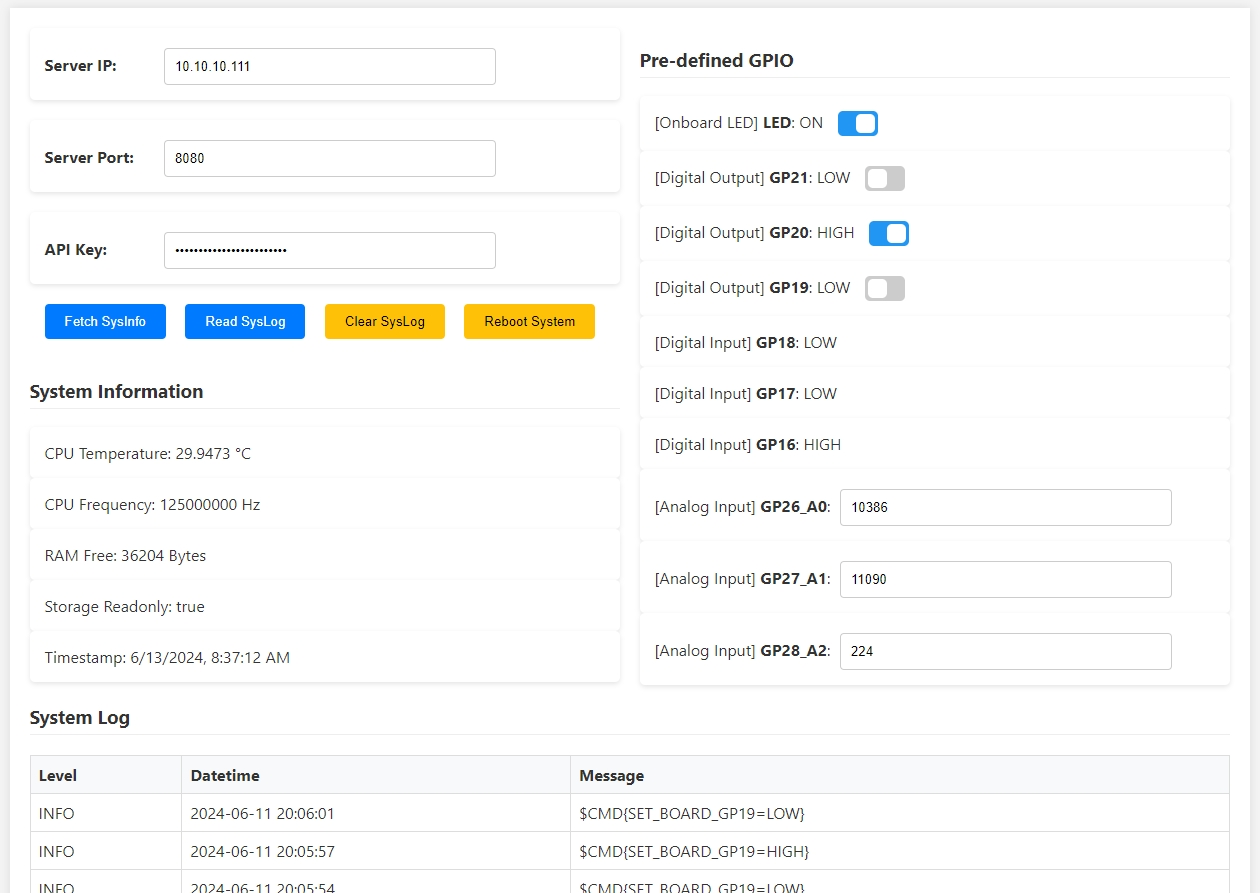
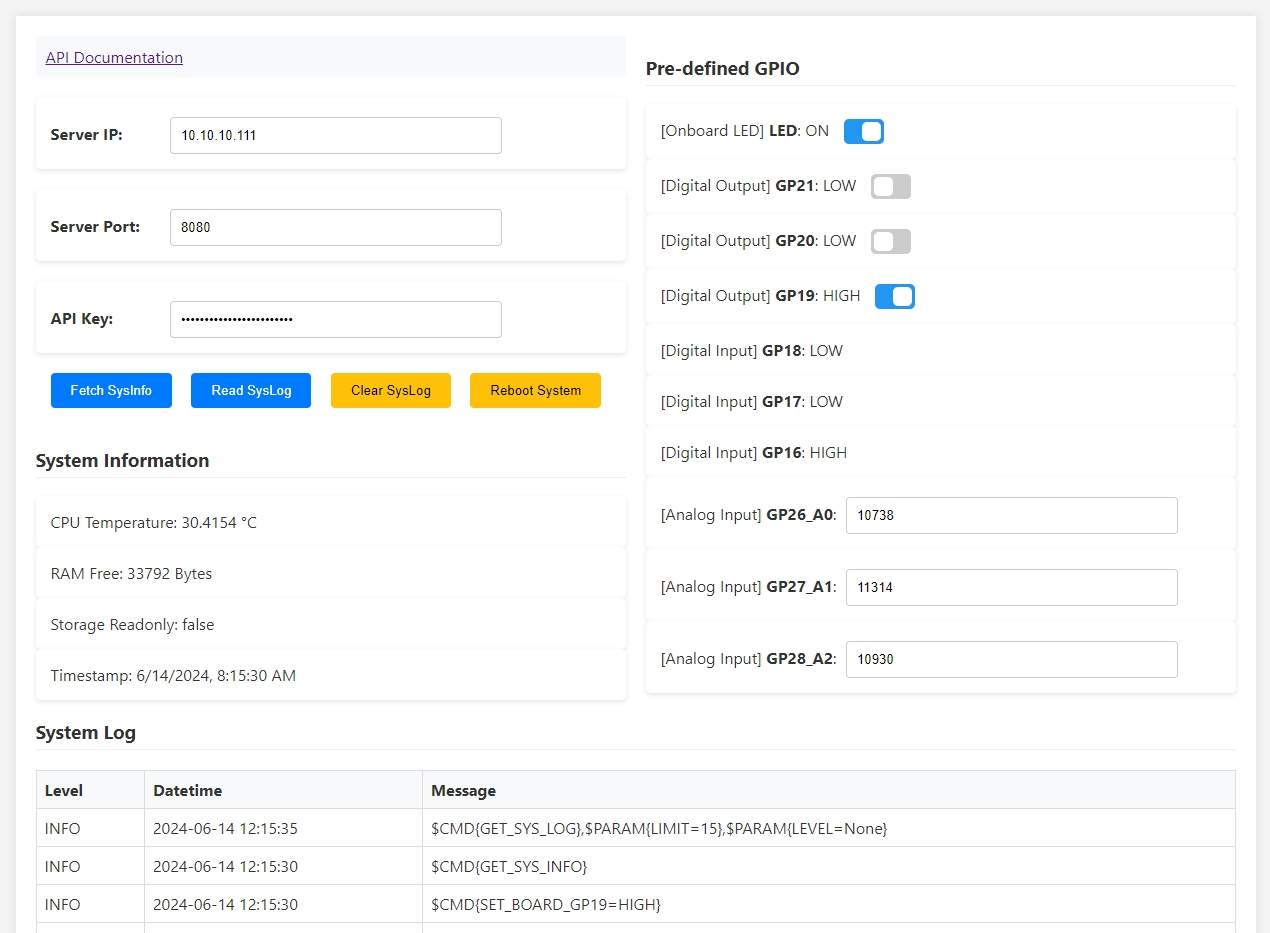
minor adjust on pages

diff --git a/CIRCUITPY/page/web_gui.html b/CIRCUITPY/page/web_gui.html
@@ -37,27 +37,38 @@
         .sys-log {
             grid-column: 1 / -1;
             width: 100%;
-            overflow-x: auto; 
+            overflow-x: auto;
         }
 
         .sys-log table {
-            width: 100%; /* Ensures the table uses the full width available */
-            border-collapse: collapse; /* Removes space between borders */
-            margin-top: 20px; /* Adds space between the log header and the table */
+            width: 100%;
+            /* Ensures the table uses the full width available */
+            border-collapse: collapse;
+            /* Removes space between borders */
+            margin-top: 20px;
+            /* Adds space between the log header and the table */
         }
 
         .sys-log th {
-            border: 1px solid #ddd; /* Adds a light border for each cell */
-            padding: 8px; /* Adds padding inside cells */
-            text-align: left; /* Aligns text to the left */
-            background-color: #f8f9fa; /* A light background color for header cells */
-            color: #333; /* Dark color for text for contrast */
+            border: 1px solid #ddd;
+            /* Adds a light border for each cell */
+            padding: 8px;
+            /* Adds padding inside cells */
+            text-align: left;
+            /* Aligns text to the left */
+            background-color: #f8f9fa;
+            /* A light background color for header cells */
+            color: #333;
+            /* Dark color for text for contrast */
         }
 
         .sys-log td {
-            border: 1px solid #ddd; /* Adds a light border for each cell */
-            padding: 8px; /* Adds padding inside cells */
-            text-align: left; /* Aligns text to the left */
+            border: 1px solid #ddd;
+            /* Adds a light border for each cell */
+            padding: 8px;
+            /* Adds padding inside cells */
+            text-align: left;
+            /* Aligns text to the left */
         }
 
         .input-group,
@@ -86,6 +97,13 @@
             border-radius: 4px;
         }
 
+        .top-bar {
+            padding: 10px;
+            text-align: middle;
+            background-color: #f8f9fa;
+        }
+
+
         button {
             padding: 10px 20px;
             margin-left: 15px;
@@ -102,12 +120,15 @@
         }
 
         .warning-button {
-            background-color: #ffc107; /* A typical 'warning' color */
-            color: black; /* Ensures text is readable on a lighter background */
+            background-color: #ffc107;
+            /* A typical 'warning' color */
+            color: black;
+            /* Ensures text is readable on a lighter background */
         }
 
         .warning-button:hover {
-            background-color: #e0a800; /* A slightly darker shade for hover state */
+            background-color: #e0a800;
+            /* A slightly darker shade for hover state */
         }
 
         .sys-info h3,
@@ -168,6 +189,9 @@
     <div class="container">
         <div class="grid">
             <div class="column">
+                <div class="top-bar">
+                    <a href="#" onclick="openAPIDoc()">API Documentation</a>
+                </div>
                 <div class="input-group">
                     <span class="input-label">Server IP:</span>
                     <input type="text" id="server_ip" placeholder="Enter server IP">
@@ -190,7 +214,7 @@
                 <div class="sys-info" id="sys_info">
                     <h3>System Information</h3>
                     <div>CPU Temperature: <span id="cpu_temp">N/A</span> °C</div>
-                    <div>CPU Frequency: <span id="cpu_freq">N/A</span> Hz</div>
+                    <!--div>CPU Frequency: <span id="cpu_freq">N/A</span> Hz</div-->
                     <div>RAM Free: <span id="ram_free">N/A</span> Bytes</div>
                     <div>Storage Readonly: <span id="storage_ro">N/A</span></div>
                     <div>Timestamp: <span id="timestamp">N/A</span></div>
@@ -312,7 +336,7 @@
             if (!validateInputs()) return;
             const data = await sendCommand('$CMD{GET_SYS_INFO}');
             document.getElementById('cpu_temp').innerText = data.data.cpu_temp;
-            document.getElementById('cpu_freq').innerText = data.data.cpu_freq;
+            /* document.getElementById('cpu_freq').innerText = data.data.cpu_freq; */
             document.getElementById('ram_free').innerText = data.data.ram_free;
             document.getElementById('storage_ro').innerText = data.data.storage_ro;
             document.getElementById('timestamp').innerText = new Date(data.timestamp * 1000).toLocaleString();
@@ -348,6 +372,12 @@
             if (confirm('Are you sure you want to clear the system log?')) {
                 const data = await sendCommand('$CMD{CLEAR_SYS_LOG}');
             }
+        }
+        function openAPIDoc() {
+            if (!validateInputs()) return;
+            const serverIP = document.getElementById('server_ip').value;
+            const serverPort = document.getElementById('server_port').value;
+            window.open(`http://${serverIP}:${serverPort}/doc`, '_blank');
         }
 
         function updateGPIOStatus(gpio) {

diff --git a/CIRCUITPY/lib/red_api_server.py b/CIRCUITPY/lib/red_api_server.py
@@ -123,7 +123,7 @@ class ApiServer:
     def load_routes(self):
         
         """
-        Serves the main HTML page for the root directory(Web GUI).
+        Serves the Web GUI HTML page for the root directory(/).
         
         Parameters:
         request (Request): The incoming request object.
@@ -133,11 +133,16 @@ class ApiServer:
         """
         @self.api_server.route("/")
         def root_route_func(request: Request):  # pylint: disable=unused-argument
-            content = self.load_file("/page/web_gui.html")
-            return Response(request, content, content_type='text/html')
+            try:
+                content = self.load_file("/page/web_gui.html")
+                return Response(request, content, content_type='text/html')
+            except Exception as e:
+                self.logger.add(f"{str(e)}","ERROR")  
+            finally:
+                gc.collect()
         
         """
-        Serves the main HTML page for the doc directory.
+        Serves the Documentation HTML page for the doc directory(/doc).
         
         Parameters:
         request (Request): The incoming request object.
@@ -147,11 +152,16 @@ class ApiServer:
         """
         @self.api_server.route("/doc")
         def root_route_func(request: Request):  # pylint: disable=unused-argument
-            content = self.load_file("/page/documentation.html")
-            return Response(request, content, content_type='text/html')
+            try:
+                content = self.load_file("/page/documentation.html")
+                return Response(request, content, content_type='text/html')
+            except Exception as e:
+                self.logger.add(f"{str(e)}","ERROR")  
+            finally:
+                gc.collect()
         
         """
-        Processes various commands received via POST requests and provides appropriate responses.
+        Processes various commands received via POST requests and provides appropriate responses(/cmd).
         
         Parameters:
         request (Request): The incoming request object containing command details.
